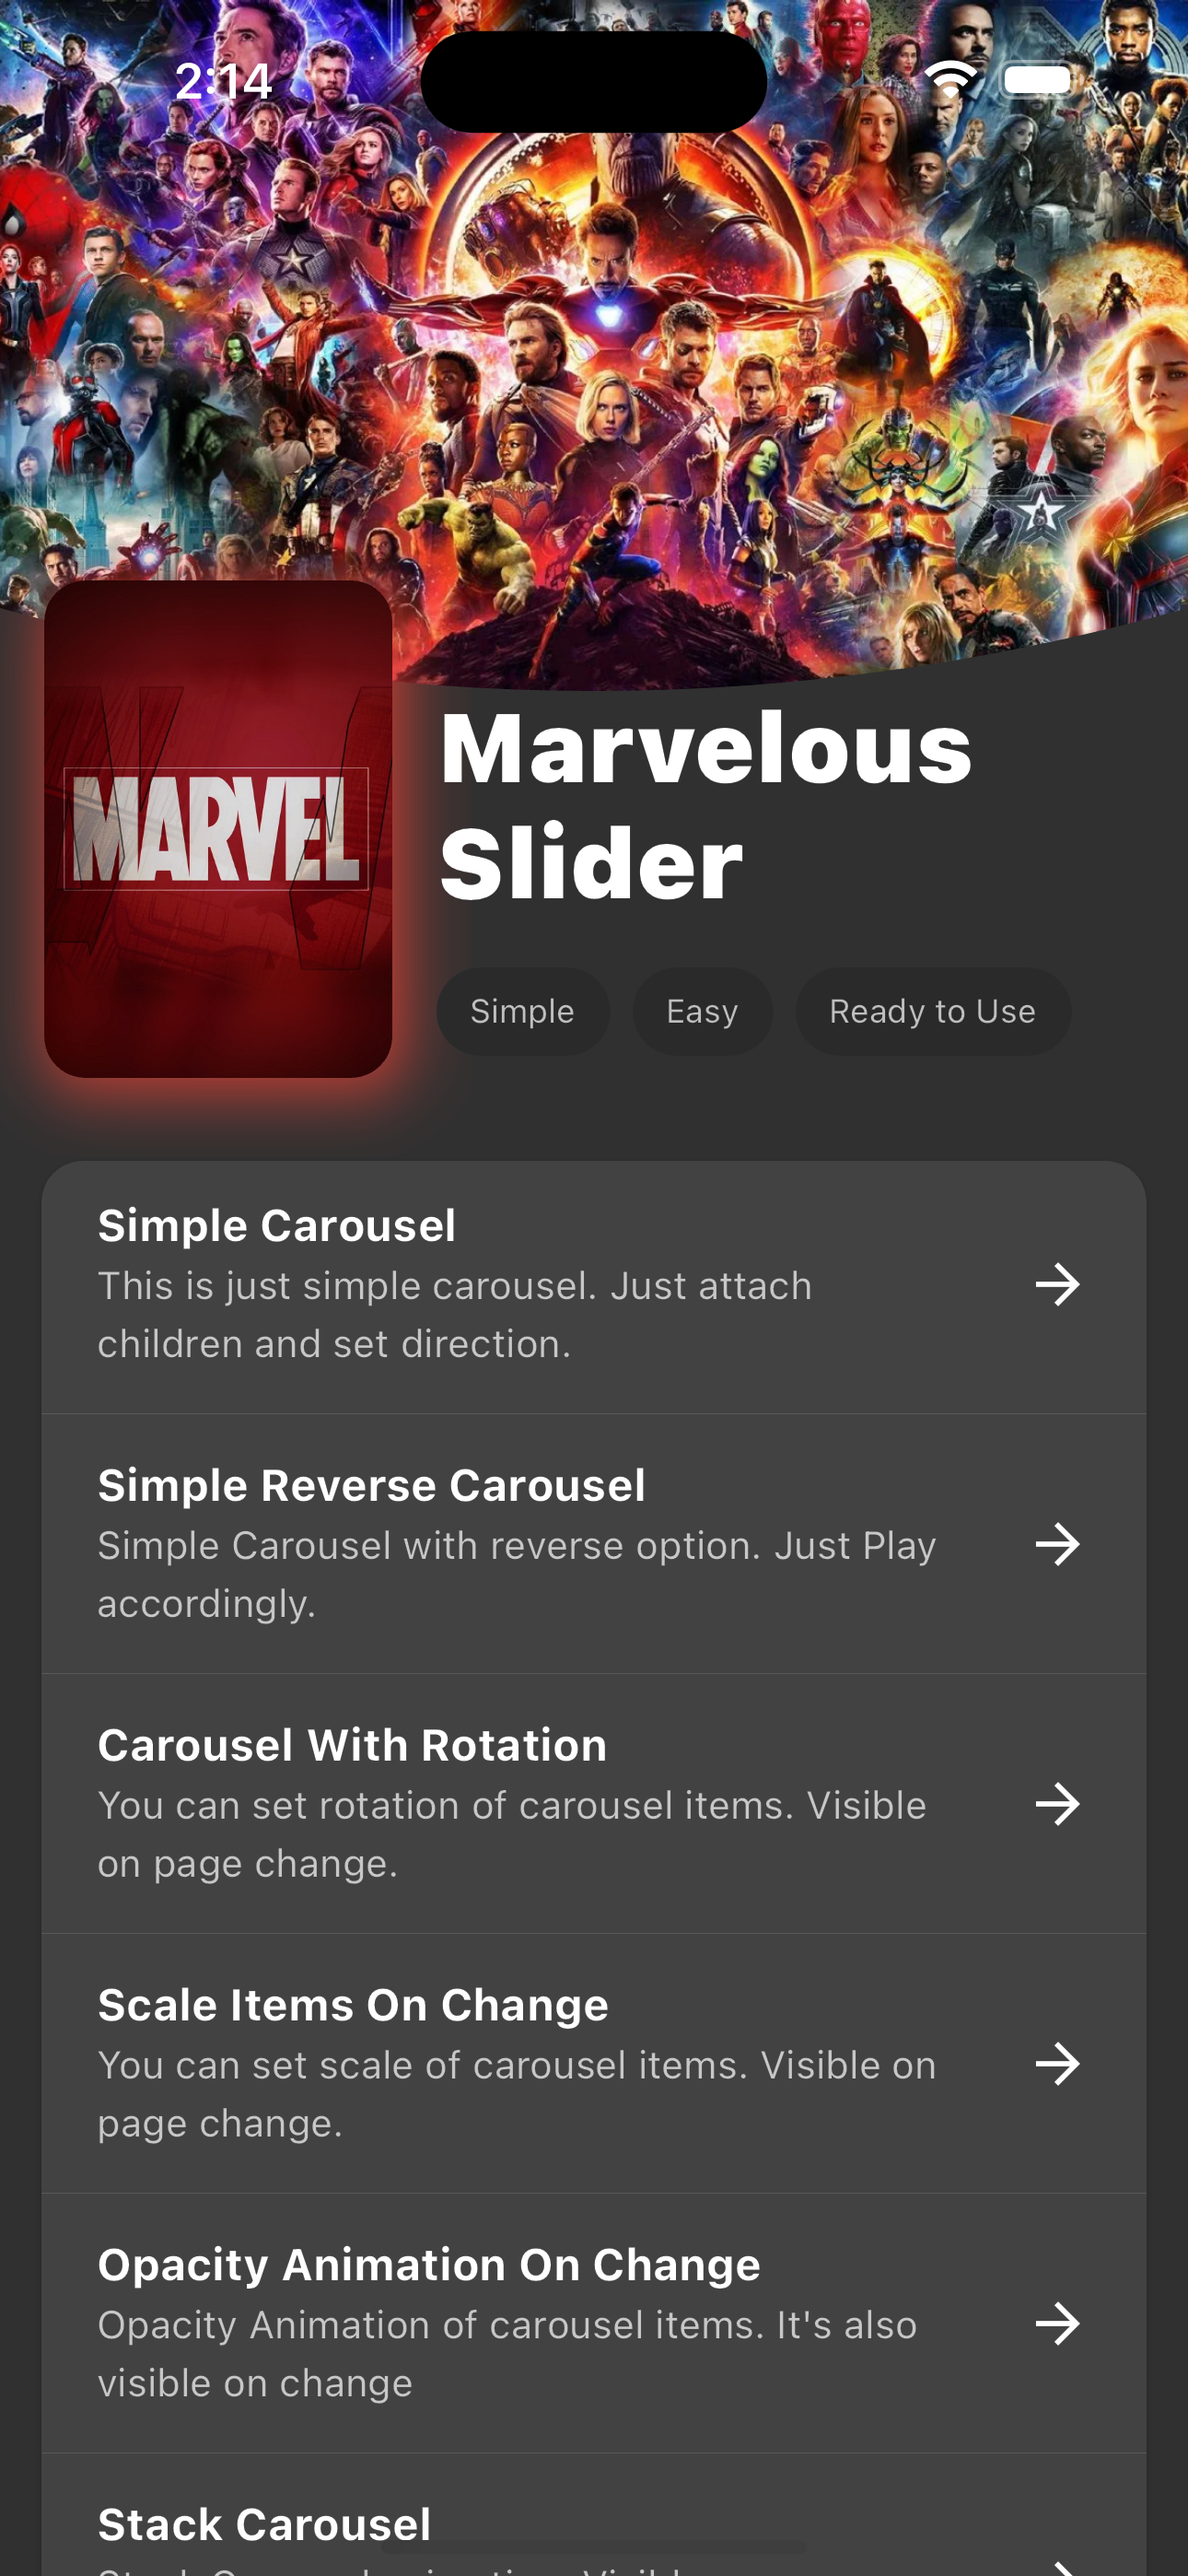
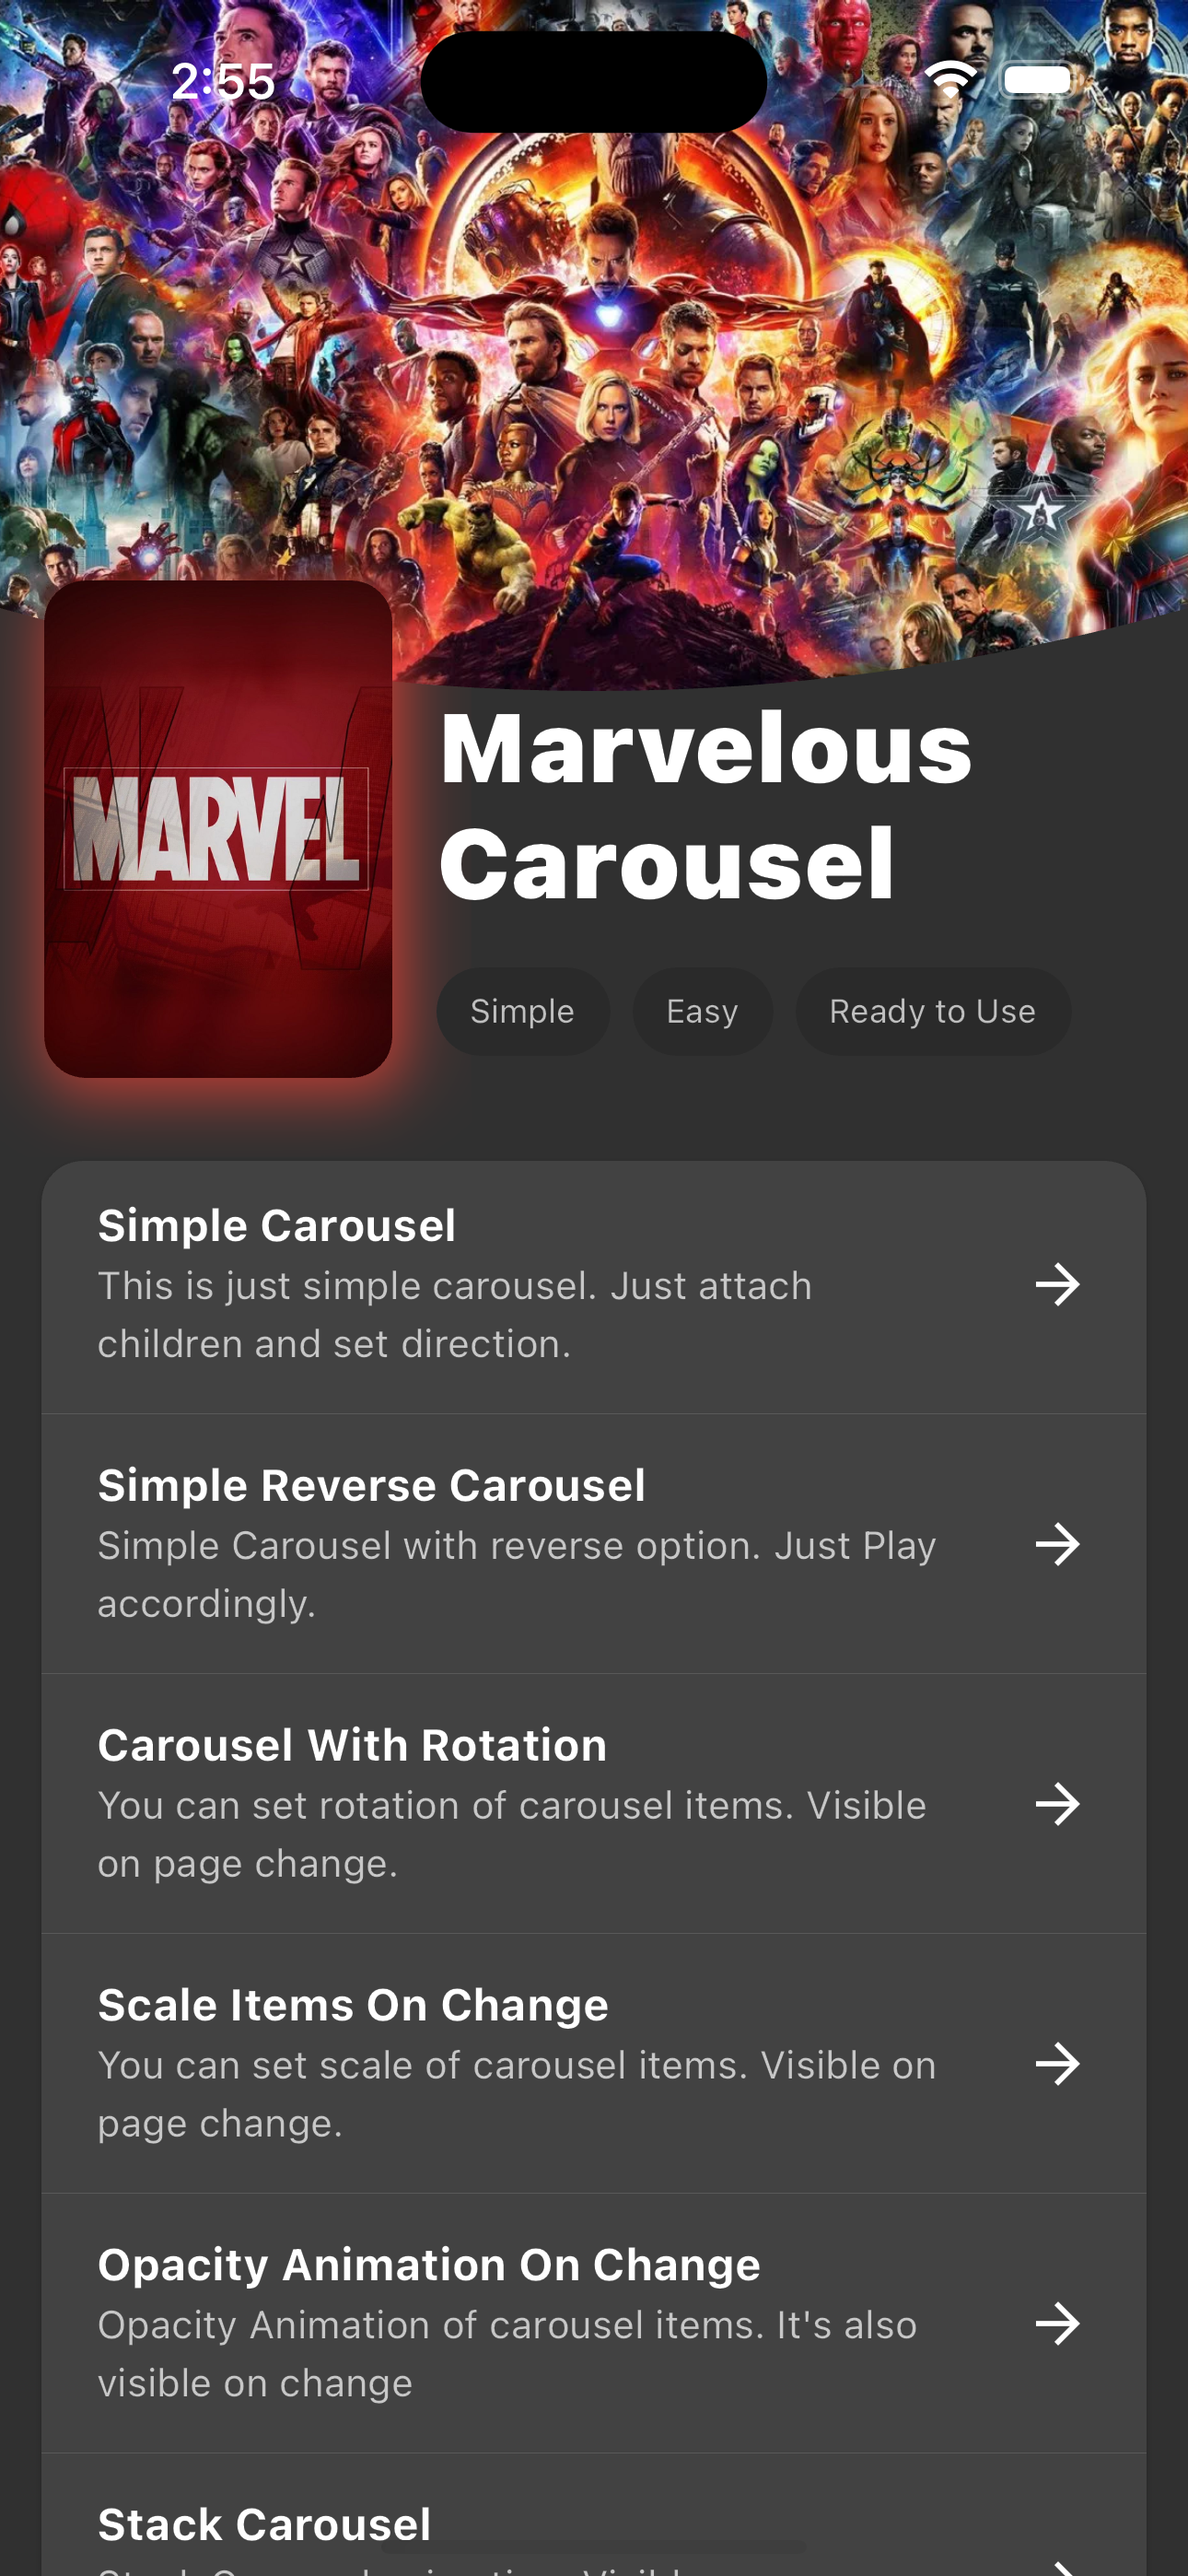
some

Changed region(s): [[0.3721, 0.3112, 0.7752, 0.3734], [0.186, 0.0311, 0.2171, 0.0622]]

diff --git a/example/lib/main.dart b/example/lib/main.dart
@@ -604,6 +604,6 @@ class _SimpleCarouselState extends State<SimpleCarousel> {
 final Movie testMovie = Movie(
   bannerUrl: 'images/banner.webp',
   posterUrl: 'images/bannerprofile.jpeg',
-  title: 'Marvelous Slider',
+  title: 'Marvelous Carousel',
   categories: ['Simple', 'Easy', 'Ready to Use'],
 );

diff --git a/README.md b/README.md
@@ -23,189 +23,13 @@ Marvelous Carousel is a widget that allows you to horizontally or vertically scr
 |----|----|----|
 |<img src="screenshots/opacity.gif" style="width:300px"/>|<img src="screenshots/stack.gif" style="width:300px"/>|<img src="screenshots/overscroll.gif" style="width:300px"/>|
 
-### Simple Carousel Example
-
-You can easily incorporate a simple carousel into your app with the following code:
-
-```dart
-StackSlider
-(
-scrollDirection: Axis.horizontal, // Scroll direction for the pager
-children: <Widget>[ // Add your child widgets here
-Container(
-color: Colors.deepPurple,
-child: Center(
-child: Card(
-shape: CircleBorder(),
-child: Image.asset("images/watch_1.jpg"),
-),
-),
-),
-// Add more items here...
-]
-,
-)
-```
-
-Result:
-![Demo](https://i.imgur.com/21m40ag.gif)
-
-### Rotational Carousel Example
-
-To create a rotational carousel, add the `rotationY` attribute to the `StackSlider`:
-
-```dart
-StackSlider
-(
-rotationY: 60, // Unselected item rotation value
-scrollDirection: Axis.horizontal, // Scroll direction for the pager
-children: <Widget>[ // Add your child widgets here
-Container(
-color: Colors.deepPurple,
-child: Center(
-child: Card(
-shape: CircleBorder(),
-child: Image.asset("images/watch_1.jpg"),
-),
-)
-,
-)
-,
-// Add more items here...
-]
-,
-)
-```
-
-Result:
-![Demo](https://i.imgur.com/jl4S0jX.gif)
-
-### Scaled Item Carousel Example
-
-You can create a scaled item carousel by adjusting the `scaleX` and `scaleY` attributes:
-
-```dart
-StackSlider
-(
-scaleX: 0.8, // Minimum scaleX value 
-scaleY: 0.4, // Minimum scaleY value 
-scrollDirection: Axis.horizontal, // Scroll direction for the pager
-children: <Widget>[ // Add your child widgets here
-Container(
-color: Colors.deepPurple,
-child: Center(
-child: Card(
-shape: CircleBorder(),
-child: Image.asset("images/watch_1.jpg"),
-),
-),
-),
-// Add more items here...
-],
-)
-```
-
-Result:
-![Demo](https://i.imgur.com/vmEI2T0.gif)
-
-### Opacity Carousel Example
-
-To create an opacity carousel, set the minimum opacity value using the `opacity` attribute:
-
-```dart
-StackSlider
-(
-opacity: 0.4, // Minimum opacity value for the items
-scrollDirection: Axis.horizontal, // Scroll direction for the pager
-children: <Widget>[ // Add your child widgets here
-Container(
-color: Colors.deepPurple,
-child: Center(
-child: Card(
-shape: CircleBorder(),
-child: Image.asset("images/watch_1.jpg"),
-),
-)
-,
-)
-,
-// Add more items here...
-]
-,
-)
-```
-
-Result:
-![Demo](https://i.imgur.com/aC2kLic.gif)
-
-### Stack Slider Example
-
-To create a stack slider, change the `PagerType` to `PagerType.stack`:
-
-```dart
-StackSlider
-(
-pagerType: PagerType.stack, // Change the StackSlider behavior to stack slider
-scrollDirection: Axis.vertical, // Scroll direction for the pager
-children: <Widget>[ // Add your child widgets here
-Container(
-color: Colors.deepPurple,
-child: Center(
-child: Card(
-shape: CircleBorder(),
-child: Image.asset("images/watch_1.jpg"),
-)
-,
-)
-,
-)
-,
-// Add more items here...
-]
-,
-)
-```
-
-Result:
-![Demo](https://i.imgur.com/vNHiSm1.gif)
-
-### Overscroll Stack Slider Example
-
-To create an overscroll stack slider, add the `overscroll` attribute and set the `pagerType`
-to `PagerType.stack`:
-
-```dart
-StackSlider
-(
-overscroll: -300, // Over Scroll value when the user slides in or slides off
-pagerType: PagerType.stack, // Set the pager type to stack
-scrollDirection: Axis.horizontal, // Scroll direction for the pager
-children: <Widget>[ // Add your child widgets here
-Container(
-color: Colors.deepPurple,
-child: Center(
-child: Card(
-shape: CircleBorder(),
-child: Image.asset("images/watch_1.jpg"),
-),
-),
-),
-// Add more items here...
-]
-,
-)
-```
-
-Result:
-![Demo](https://i.imgur.com/dIBgKXr.gif)
-
-## Finite StackSlider Attribute List
+## Marvelous Crousel Property List
 
 Here are the details of all attributes:
 
 | Attribute Name   | Description                                                           | Applicable Type |
 |:-----------------|:----------------------------------------------------------------------|:----------------|
-| pagerType        | Set the StackSlider type, i.e., PagerType.Carousel & PagerType.Stack  | -               |
+| pagerType        | Set the MarvelousSlider type, i.e., PagerType.Carousel & PagerType.Stack  | -               |
 | reverse          | Reverse the order if set to true                                      | Both            |
 | scrollDirection  | Scroll direction of your pager, i.e., Axis.Horizontal & Axis.Vertical | Both            |
 | viewPortFraction | Set the view port fraction                                            | Carousel        |
@@ -221,15 +45,3 @@ Here are the details of all attributes:
 | key              | Set a key for the pager                                               | Both            |
 | children         | List of child widgets to add to the pager                             | -               |
 | dotsVisible      | set true if you want to see dots                                      | -               |
-
-## MIT License
-
-Copyright (c) 2023 Selman Poyraz
-
-
-[linkedin]: https://www.linkedin.com/in/kaz%C4%B1m-selman-poyraz-0048b7143/
-[github]: https://github.com/kspo
-
-[pull_down_button]: https://pub.dev/packages/pull_down_button#pulldownbuttontheme
-[marqueer]: https://pub.dev/packages/marqueer
-[chart_sparkline]: https://pub.dev/packages/chart_sparkline
